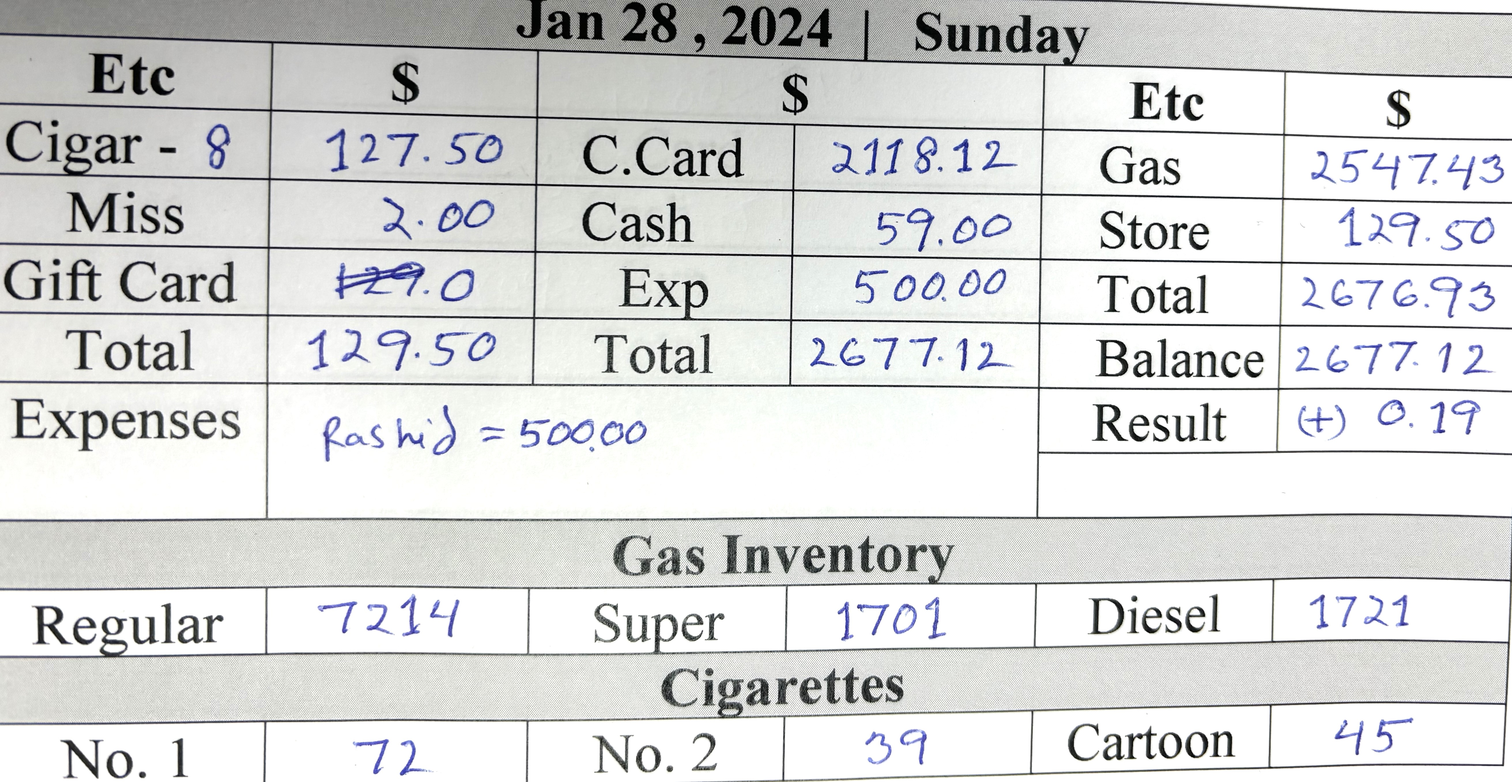
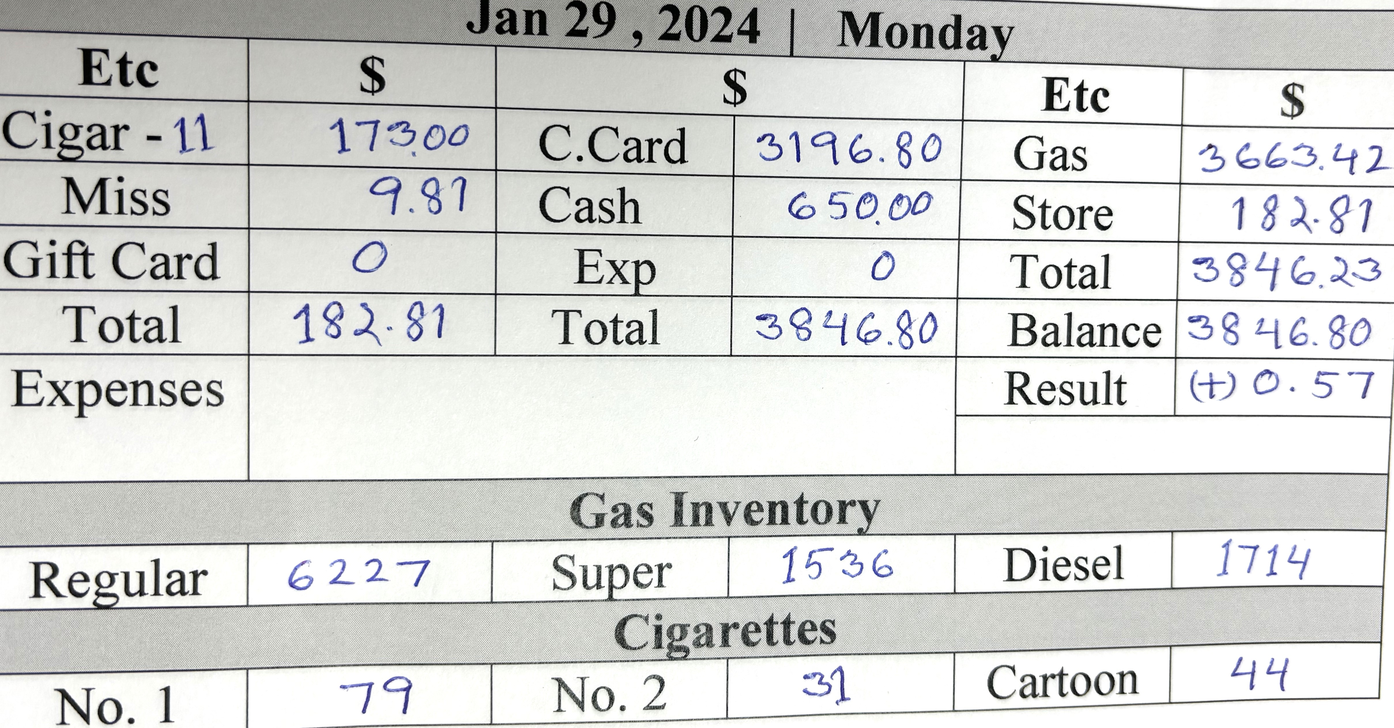
29 done

Changed region(s): [[0.0, 0.0, 1.0, 1.0], [0.2186, 0.5312, 0.4371, 0.5938]]

diff --git a/card.min.html b/card.min.html
@@ -1,1 +1,1 @@
-<!DOCTYPE html> <html lang="en"> <head> <meta charset="UTF-8"> <meta http-equiv="X-UA-Compatible" content="IE=edge"> <meta name="viewport" content="width=device-width,initial-scale=1"> <title>Gallon Info</title> <link rel="stylesheet" href="https://cdn.jsdelivr.net/npm/bootstrap@5.3.0-alpha1/dist/css/bootstrap.min.css"> </head> <body> <div class="card-group d-sm-flex flex-row bd-highlight mb- justify-content-center"> <div class="card bg-secondary align-items-center justify-content-center" style="height:50px"> <div class="card-body text-info fst-italic"> <h5 class="card-title fw-bolder text-center">Regular Price : <span class="text-warning">$2.99</span></h5> </div> </div> <div class="card bg-secondary align-items-center justify-content-center" style="height:50px"> <div class="card-body text-info fst-italic"> <h5 class="card-title fw-bolder text-center pt-">Silver Price : <span class="text-warning">$3.89</span></h5> </div> </div> <div class="card bg-secondary align-items-center justify-content-center" style="height:50px"> <div class="card-body text-info fst-italic"> <h5 class="card-title fw-bolder text-center">Super Price : <span class="text-warning">$3.99</span></h5> </div> </div> <div class="card bg-secondary align-items-center justify-content-center" style="height:50px"> <div class="card-body text-info fst-italic"> <h5 class="card-title fw-bolder text-center">Diesel Price : <span class="text-warning">$4.39</span></h5> </div> </div> </div> <div class="card-group"> <div class="card"> <button type="button" class="btn btn-warning text- fs- fw-bold text-uppercase"> For store Details <a title="printPage Me" class="text-bg-danger ms-3 fw-bolder p-1 rounded-3 text-decoration-none" href="index.html"> Click Me </a> </button> </div> </div> <div class="card-group m-0 d-sm-flex flex-row bd-highlight mb-"> <div class="card me-1 bg-info"> <h5 class="card-title text-center pt-4 m-0"> <button class="p-1 rounded-3" type="button"><a title="Click Me" class="text-decoration-none text-primary fw-bolder" href="index.html">   </a> </button> </h5>  <p class="card-text"></p> <img src="allPic/28.jpg" class="card-img-top text-danger text-center fw-bolder fs-3" alt="Call Rashid "> <div class="card-body">   <p class="card-text"></p> </div> </div> <div class="card me-1 bg-info"> <h5 class="card-title text-center pt-4 m-0"> <button class="p-1 rounded-3" type="button"><a title="Click Me" class="text-primary fw-bolder text-decoration-none" href="index.html"> Jan 27,2024 </a> </button> </h5>  <p class="card-text"></p> <img src="allPic/27.jpg" class="card-img-top text-center text-bg-danger" alt="Not Done"> <div class="card-body">   <p class="card-text"></p> </div> </div> <div class="card ms- bg-info"> <h5 class="card-title text-center pt-4 m-0"> <button class="p-1 rounded-3" type="button"><a title="Click Me" class="text-primary fw-bolder text-decoration-none" href="index.html"> Jan 26,2024 </a> </button> </h5>  <p class="card-text"></p> <img src="allPic/26.jpg" class="card-img-top text-center text-bg-danger" alt="Not Done"> <div class="card-body">   <p class="card-text"></p> </div> </div> <div class="card me-1 bg-info"> <h5 class="card-title text-center pt-4 m-0"> <button class="p-1 rounded-3" type="button"><a title="Click Me" class="text-primary fw-bolder text-decoration-none" href="index.html"> Jan 25,2024 </a> </button> </h5>  <p class="card-text"></p> <img title="Pic" src="allPic/25.jpg" class="card-img-top text-bg-danger fw-bolder text-center" alt="Already Done"> <div class="card-body">   <p class="card-text"></p> </div> </div> </div> <div class="card"> <div class="card-header bg-warning text-dark fw-bolder text-center py-3"> All Rights Reserved @ Jaber Ali , 2024 </div> </div>  <script type="text/javascript">const timeElement=document.querySelector(".time"),dateElement=document.querySelector(".date");function formatTime(e){e.getHours(),e.getMinutes(),e.getHours();return""}function formatDate(e){return` ${["January","February","March","April","May","June","July","August","September","October","November","December"][e.getMonth()]} ${e.getDate()-1}, ${e.getFullYear()}`}setInterval((()=>{const e=new Date;timeElement.textContent=formatTime(e),dateElement.textContent=formatDate(e)}),200)</script> 
+<!DOCTYPE html> <html lang="en"> <head> <meta charset="UTF-8"> <meta http-equiv="X-UA-Compatible" content="IE=edge"> <meta name="viewport" content="width=device-width,initial-scale=1"> <title>Gallon Info</title> <link rel="stylesheet" href="https://cdn.jsdelivr.net/npm/bootstrap@5.3.0-alpha1/dist/css/bootstrap.min.css"> </head> <body> <div class="card-group d-sm-flex flex-row bd-highlight mb- justify-content-center"> <div class="card bg-secondary align-items-center justify-content-center" style="height:50px"> <div class="card-body text-info fst-italic"> <h5 class="card-title fw-bolder text-center">Regular Price : <span class="text-warning">$2.99</span></h5> </div> </div> <div class="card bg-secondary align-items-center justify-content-center" style="height:50px"> <div class="card-body text-info fst-italic"> <h5 class="card-title fw-bolder text-center pt-">Silver Price : <span class="text-warning">$3.89</span></h5> </div> </div> <div class="card bg-secondary align-items-center justify-content-center" style="height:50px"> <div class="card-body text-info fst-italic"> <h5 class="card-title fw-bolder text-center">Super Price : <span class="text-warning">$3.99</span></h5> </div> </div> <div class="card bg-secondary align-items-center justify-content-center" style="height:50px"> <div class="card-body text-info fst-italic"> <h5 class="card-title fw-bolder text-center">Diesel Price : <span class="text-warning">$4.39</span></h5> </div> </div> </div> <div class="card-group"> <div class="card"> <button type="button" class="btn btn-warning text- fs- fw-bold text-uppercase"> For store Details <a title="printPage Me" class="text-bg-danger ms-3 fw-bolder p-1 rounded-3 text-decoration-none" href="index.html"> Click Me </a> </button> </div> </div> <div class="card-group m-0 d-sm-flex flex-row bd-highlight mb-"> <div class="card me-1 bg-info"> <h5 class="card-title text-center pt-4 m-0"> <button class="p-1 rounded-3" type="button"><a title="Click Me" class="text-decoration-none text-primary fw-bolder" href="index.html">   </a> </button> </h5>  <p class="card-text"></p> <img src="allPic/29.jpg" class="card-img-top text-danger text-center fw-bolder fs-3" alt="Call Rashid "> <div class="card-body">   <p class="card-text"></p> </div> </div> <div class="card me-1 bg-info"> <h5 class="card-title text-center pt-4 m-0"> <button class="p-1 rounded-3" type="button"><a title="Click Me" class="text-primary fw-bolder text-decoration-none" href="index.html"> Jan 28,2024 </a> </button> </h5>  <p class="card-text"></p> <img src="allPic/28.jpg" class="card-img-top text-center text-bg-danger" alt="Not Done"> <div class="card-body">   <p class="card-text"></p> </div> </div> <div class="card ms- bg-info"> <h5 class="card-title text-center pt-4 m-0"> <button class="p-1 rounded-3" type="button"><a title="Click Me" class="text-primary fw-bolder text-decoration-none" href="index.html"> Jan 27,2024 </a> </button> </h5>  <p class="card-text"></p> <img src="allPic/27.jpg" class="card-img-top text-center text-bg-danger" alt="Not Done"> <div class="card-body">   <p class="card-text"></p> </div> </div> <div class="card me-1 bg-info"> <h5 class="card-title text-center pt-4 m-0"> <button class="p-1 rounded-3" type="button"><a title="Click Me" class="text-primary fw-bolder text-decoration-none" href="index.html"> Jan 26,2024 </a> </button> </h5>  <p class="card-text"></p> <img title="Pic" src="allPic/26.jpg" class="card-img-top text-bg-danger fw-bolder text-center" alt="Already Done"> <div class="card-body">   <p class="card-text"></p> </div> </div> </div> <div class="card"> <div class="card-header bg-warning text-dark fw-bolder text-center py-3"> All Rights Reserved @ Jaber Ali , 2024 </div> </div>  <script type="text/javascript">const timeElement=document.querySelector(".time"),dateElement=document.querySelector(".date");function formatTime(e){e.getHours(),e.getMinutes(),e.getHours();return""}function formatDate(e){return` ${["January","February","March","April","May","June","July","August","September","October","November","December"][e.getMonth()]} ${e.getDate()-1}, ${e.getFullYear()}`}setInterval((()=>{const e=new Date;timeElement.textContent=formatTime(e),dateElement.textContent=formatDate(e)}),200)</script> 

diff --git a/weekly.min.html b/weekly.min.html
@@ -1,1 +1,1 @@
-<!DOCTYPE html> <html lang="en"> <meta charset="UTF-8"> <meta http-equiv="X-UA-Compatible" content="IE=edge"> <meta name="viewport" content="width=device-width,initial-scale=1"> <title>Cigarettes Info</title> <link rel="stylesheet" href="https://cdn.jsdelivr.net/npm/bootstrap@5.3.0-alpha1/dist/css/bootstrap.min.css">  <body> <div class="text-bg-success py-2 fw-bold"> <marquee behavior="" direction="">Weekly Total Sales Money</marquee> </div> <div class="container-fluid text-center m-0 p-0"> <div class="card-group"> <div class="card"> <button type="button" class="btn btn-warning fs- fw-bold text-uppercase"> Home Page <a title="printPage Me" class="text-bg-danger ms-2 fw-bolder p-1 rounded-3 text-decoration-none" href="index.html"> Click Me </a> </button> </div> </div> <div class="text-bg-info text-cente py- fw-bold mb-"> <div class="card-group m-0 d-sm-flex flex-row bd-highlight mb-"> <div class="card me- bg-inf"> <h5 class="text-center ms-5 mt-3 text-danger">Current Week</h5> <div class="card-body ms-3 p-0"> <table class="table"> <tr class="text-end"> <td>Monday </td> <td>:</td> <td class="text-start"> $ 0.00</td> </tr> <tr class="text-end"> <td>Tuesday </td> <td> :</td> <td class="text-start"> $ 0.00 </td> </tr> <tr class="text-end"> <td>Wednesday</td> <td> :</td> <td class="text-start">$ 0.00</td> </tr> <tr class="text-end"> <td>Thursday </td> <td> :</td> <td class="text-start"> $ 0.00 </td> </tr> <tr class="text-end"> <td class="">Friday </td> <td> :</td> <td class="text-start"> $ 0.00 </td> </tr> <tr class="text-end"> <td>Saturday </td> <td> :</td> <td class="text-start">0.00</td> </tr> <tr class="text-end"> <td>Sunday </td> <td> :</td> <td class="text-start">0.00 </td> </tr> <tr class="text-end"> <td>Auto Money </td> <td> :</td> <td class="text-start">0.00</td> </tr> </table> <div class="m-0 p-0"> <p class="text-center text-danger bg-light fw-bold">Total Money : $ 00</p> </div> </div> </div> <div class="card me- bg-inf"> <h5 class="text-center ms-5 mt-3 text-danger">Last Week : Jan 22 to 27 , 2024</h5> <div class="card-body ms-3 p-0"> <table class="table"> <tr class="text-end"> <td>Monday </td> <td>:</td> <td class="text-start"> $ 537.00</td> </tr> <tr class="text-end"> <td>Tuesday </td> <td> :</td> <td class="text-start"> $ -86.00 [auto pabe]</td> </tr> <tr class="text-end"> <td>Wednesday</td> <td> :</td> <td class="text-start">$ 42.00</td> </tr> <tr class="text-end"> <td>Thursday </td> <td> :</td> <td class="text-start"> $ 263.00 </td> </tr> <tr class="text-end"> <td class="">Friday </td> <td> :</td> <td class="text-start"> $ 272.00 </td> </tr> <tr class="text-end"> <td>Saturday </td> <td> :</td> <td class="text-start">-189.00 [auto pabe]</td> </tr> <tr class="text-end"> <td>Sunday </td> <td> :</td> <td class="text-start">559.00 </td> </tr> <tr class="text-end"> <td>Auto Money </td> <td> :</td> <td class="text-start"> 1059.00 <sup class="p-1 rounded-4 text-bg-dark">Tax:148</sup> [Mostofa=911]</td> </tr> </table> <div class="m-0 p-0"> <p class="text-center text-danger bg-light fw-bold">Total Money : $ 2457 - 1101 = 1356</p> </div> </div> </div> <div class="card me- bg-"> <div class="card-body"> <h5 class="text-start text-danger ms-2">Expenses of Last Week</h5> <table class="table text-start"> <tr> <td class="">Ali <span class="ms-5">: $ 525.00</span></td> </tr> <tr> <td class="">Rashid <span class="ms-2">: $ 572.00</span></td> </tr> <tr> <td class="">pen,Rubber <span class="ms-2">: $ 4.00</span></td> </tr> <tr> <td class="text-bg-warning text-dark rounded-2">Total <span class="ms-4">: $ 1101.00</span></td> </tr> </table> </div> </div> </div> </div> <!-- #footer start --> <div class="text-bg-success text-center py-2 fw-bold"> <p> All Rights Reserved @ Jaber Ali , 2023  </p> </div> </div> <script type="text/javascript">function printPage(){window.print()}</script> 
+<!DOCTYPE html> <html lang="en"> <meta charset="UTF-8"> <meta http-equiv="X-UA-Compatible" content="IE=edge"> <meta name="viewport" content="width=device-width,initial-scale=1"> <title>Cigarettes Info</title> <link rel="stylesheet" href="https://cdn.jsdelivr.net/npm/bootstrap@5.3.0-alpha1/dist/css/bootstrap.min.css">  <body> <div class="text-bg-success py-2 fw-bold"> <marquee behavior="" direction="">Weekly Total Sales Money</marquee> </div> <div class="container-fluid text-center m-0 p-0"> <div class="card-group"> <div class="card"> <button type="button" class="btn btn-warning fs- fw-bold text-uppercase"> Home Page <a title="printPage Me" class="text-bg-danger ms-2 fw-bolder p-1 rounded-3 text-decoration-none" href="index.html"> Click Me </a> </button> </div> </div> <div class="text-bg-info text-cente py- fw-bold mb-"> <div class="card-group m-0 d-sm-flex flex-row bd-highlight mb-"> <div class="card me- bg-inf"> <h5 class="text-center ms-5 mt-3 text-danger">Current Week</h5> <div class="card-body ms-3 p-0"> <table class="table"> <tr class="text-end"> <td>Monday </td> <td>:</td> <td class="text-start"> $ 650.00</td> </tr> <tr class="text-end"> <td>Tuesday </td> <td> :</td> <td class="text-start"> $ 0.00 </td> </tr> <tr class="text-end"> <td>Wednesday</td> <td> :</td> <td class="text-start">$ 0.00</td> </tr> <tr class="text-end"> <td>Thursday </td> <td> :</td> <td class="text-start"> $ 0.00 </td> </tr> <tr class="text-end"> <td class="">Friday </td> <td> :</td> <td class="text-start"> $ 0.00 </td> </tr> <tr class="text-end"> <td>Saturday </td> <td> :</td> <td class="text-start">0.00</td> </tr> <tr class="text-end"> <td>Sunday </td> <td> :</td> <td class="text-start">0.00 </td> </tr> <tr class="text-end"> <td>Auto Money </td> <td> :</td> <td class="text-start">0.00</td> </tr> </table> <div class="m-0 p-0"> <p class="text-center text-danger bg-light fw-bold">Total Money : $ 00</p> </div> </div> </div> <div class="card me- bg-inf"> <h5 class="text-center ms-5 mt-3 text-danger">Last Week : Jan 22 to 27 , 2024</h5> <div class="card-body ms-3 p-0"> <table class="table"> <tr class="text-end"> <td>Monday </td> <td>:</td> <td class="text-start"> $ 537.00</td> </tr> <tr class="text-end"> <td>Tuesday </td> <td> :</td> <td class="text-start"> $ -86.00 [auto pabe]</td> </tr> <tr class="text-end"> <td>Wednesday</td> <td> :</td> <td class="text-start">$ 42.00</td> </tr> <tr class="text-end"> <td>Thursday </td> <td> :</td> <td class="text-start"> $ 263.00 </td> </tr> <tr class="text-end"> <td class="">Friday </td> <td> :</td> <td class="text-start"> $ 272.00 </td> </tr> <tr class="text-end"> <td>Saturday </td> <td> :</td> <td class="text-start">-189.00 [auto pabe]</td> </tr> <tr class="text-end"> <td>Sunday </td> <td> :</td> <td class="text-start">559.00 </td> </tr> <tr class="text-end"> <td>Auto Money </td> <td> :</td> <td class="text-start"> 1059.00 <sup class="p-1 rounded-4 text-bg-dark">Tax:148</sup> [Mostofa=911]</td> </tr> </table> <div class="m-0 p-0"> <p class="text-center text-danger bg-light fw-bold">Total Money : $ 2457 - 1101 = 1356</p> </div> </div> </div> <div class="card me- bg-"> <div class="card-body"> <h5 class="text-start text-danger ms-2">Expenses of Last Week</h5> <table class="table text-start"> <tr> <td class="">Ali <span class="ms-5">: $ 525.00</span></td> </tr> <tr> <td class="">Rashid <span class="ms-2">: $ 572.00</span></td> </tr> <tr> <td class="">pen,Rubber <span class="ms-2">: $ 4.00</span></td> </tr> <tr> <td class="text-bg-warning text-dark rounded-2">Total <span class="ms-4">: $ 1101.00</span></td> </tr> </table> </div> </div> </div> </div> <!-- #footer start --> <div class="text-bg-success text-center py-2 fw-bold"> <p> All Rights Reserved @ Jaber Ali , 2023  </p> </div> </div> <script type="text/javascript">function printPage(){window.print()}</script> 

diff --git a/index.min.html b/index.min.html
@@ -1,1 +1,1 @@
-<!DOCTYPE html> <html lang="en"> <head> <meta charset="UTF-8"> <meta http-equiv="X-UA-Compatible" content="IE=edge"> <meta name="viewport" content="width=device-width,initial-scale=1"> <title>Store Info</title> <link rel="stylesheet" href="https://cdn.jsdelivr.net/npm/bootstrap@5.3.0-alpha1/dist/css/bootstrap.min.css"> </head> <body> <div class="text-bg-success py-2 fw-bold text-uppercase"> <marquee behavior="" direction=""><span class="text-bolder text-bg-danger rounded-circle m-lg-2 fs-">***</span> Personal Business Information <span class="text-bolder text-bg-danger rounded-circle m-lg-2 fs-">***</span></marquee> </div> <div class="card-group"> <div class="card"> <button type="button" class="btn btn-warning fs- fw-bold text-uppercase"> For Gallon Details <a title="printPage Me" class="text-bg-danger ms-3 fw-bolder p-1 rounded-3 text-decoration-none" href="card.html"> Click Me </a> </button> </div> </div> <div class="card-group"> <div class="card"> <button type="button" class="btn btn-warning fs- fw-bold text-uppercase"> Order Cigarettes <a title="printPage Me" class="text-bg-danger ms-3 fw-bolder p-1 rounded-3 text-decoration-none" href="cigarettes.html"> Click Me </a> </button> </div> <div class="card"> <button type="button" class="btn btn-warning fs- fw-bold text-uppercase"> Weekly Total Money<a title="printPage Me" class="text-bg-danger ms-3 fw-bolder p-1 rounded-3 text-decoration-none" href="weekly.html"> Click Me </a> </button> </div> </div> <div class="text-center py-2"> <button class="fw-bold fs-5 rounded-2 text-bg-light text-primary"> <a title="printPage Me" class="text-decoration-none" href="card.html">   <span class=""> <button class="ms-5 fw-bolder rounded-2" onclick="printPage()"> Print Me </button></span> </a> </button> </div> <div class="card-group"> <div class="card"> <button type="button" class="btn btn-info fs- fw-bold text-uppercase"> Shift Report <span class="text-white ms-1">*</span> </button> <img src="allPic/hisab.jpg" class="card-img-top text-center text-bg-danger" alt="NOT FINISH"> </div> </div> <div class="card-grou"> <div class="card pb-3"> <button type="button" class="btn btn-secondary fs fw-bold text-uppercase"> Exp : <span class="text-warning ms-3">rashid : 72+500 = 572 </span> </button> </div> </div> <div class="card-group"> <div class="card"> <button type="button" class="btn btn-secondary fs- fw-bold text-uppercase"> Auto shop </button> </div> </div> <div class="pb-3"> <div class="d-flex justify-content-around border border-dark fw-bolder"> <div class="p-0 text-info">T.M</div> <div class="p-0 text-danger">2815</div> <div class="p-0 text-info">Etc</div> <div class="p-0 text-danger">993</div> <div class="p-0 text-info">Rest</div> <div class="p-0 text-danger">1822 = 911</div> </div> </div> <!-- #footer start --> <div class="text-bg-warning text-center py-3 fw-bold"> All Rights Reserved @ Jaber Ali , 2024 </div>  <script type="text/javascript">function printPage(){window.print()}const timeElement=document.querySelector(".time"),dateElement=document.querySelector(".date");function formatTime(t){const e=t.getHours()%12||12,n=t.getMinutes(),r=t.getHours()<12;return`${e.toString().padStart(2,"0")}:${n.toString().padStart(2,"0")} ${r?"AM":"PM"}`}function formatDate(t){return` ${["January","February","March","April","May","June","July","August","September","October","November","December"][t.getMonth()]} ${t.getDate()-1}, ${t.getFullYear()}`}setInterval((()=>{const t=new Date;timeElement.textContent=formatTime(t),dateElement.textContent=formatDate(t)}),200)</script> 
+<!DOCTYPE html> <html lang="en"> <head> <meta charset="UTF-8"> <meta http-equiv="X-UA-Compatible" content="IE=edge"> <meta name="viewport" content="width=device-width,initial-scale=1"> <title>Store Info</title> <link rel="stylesheet" href="https://cdn.jsdelivr.net/npm/bootstrap@5.3.0-alpha1/dist/css/bootstrap.min.css"> </head> <body> <div class="text-bg-success py-2 fw-bold text-uppercase"> <marquee behavior="" direction=""><span class="text-bolder text-bg-danger rounded-circle m-lg-2 fs-">***</span> Personal Business Information <span class="text-bolder text-bg-danger rounded-circle m-lg-2 fs-">***</span></marquee> </div> <div class="card-group"> <div class="card"> <button type="button" class="btn btn-warning fs- fw-bold text-uppercase"> For Gallon Details <a title="printPage Me" class="text-bg-danger ms-3 fw-bolder p-1 rounded-3 text-decoration-none" href="card.html"> Click Me </a> </button> </div> </div> <div class="card-group"> <div class="card"> <button type="button" class="btn btn-warning fs- fw-bold text-uppercase"> Order Cigarettes <a title="printPage Me" class="text-bg-danger ms-3 fw-bolder p-1 rounded-3 text-decoration-none" href="cigarettes.html"> Click Me </a> </button> </div> <div class="card"> <button type="button" class="btn btn-warning fs- fw-bold text-uppercase"> Weekly Total Money<a title="printPage Me" class="text-bg-danger ms-3 fw-bolder p-1 rounded-3 text-decoration-none" href="weekly.html"> Click Me </a> </button> </div> </div> <div class="text-center py-2"> <button class="fw-bold fs-5 rounded-2 text-bg-light text-primary"> <a title="printPage Me" class="text-decoration-none" href="card.html">   <span class=""> <button class="ms-5 fw-bolder rounded-2" onclick="printPage()"> Print Me </button></span> </a> </button> </div> <div class="card-group"> <div class="card"> <button type="button" class="btn btn-info fs- fw-bold text-uppercase"> Shift Report <span class="text-white ms-1">*</span> </button> <img src="allPic/hisab.jpg" class="card-img-top text-center text-bg-danger" alt="NOT FINISH"> </div> </div> <div class="card-grou"> <div class="card pb-3"> <button type="button" class="btn btn-secondary fs fw-bold text-uppercase"> Exp : <span class="text-warning ms-3">0</span> </button> </div> </div> <div class="card-group"> <div class="card"> <button type="button" class="btn btn-secondary fs- fw-bold text-uppercase"> Auto shop </button> </div> </div> <div class="pb-3"> <div class="d-flex justify-content-around border border-dark fw-bolder"> <div class="p-0 text-info">T.M</div> <div class="p-0 text-danger">646</div> <div class="p-0 text-info">Etc</div> <div class="p-0 text-danger">300</div> <div class="p-0 text-info">Rest</div> <div class="p-0 text-danger">346</div> </div> </div> <!-- #footer start --> <div class="text-bg-warning text-center py-3 fw-bold"> All Rights Reserved @ Jaber Ali , 2024 </div>  <script type="text/javascript">function printPage(){window.print()}const timeElement=document.querySelector(".time"),dateElement=document.querySelector(".date");function formatTime(t){const e=t.getHours()%12||12,n=t.getMinutes(),r=t.getHours()<12;return`${e.toString().padStart(2,"0")}:${n.toString().padStart(2,"0")} ${r?"AM":"PM"}`}function formatDate(t){return` ${["January","February","March","April","May","June","July","August","September","October","November","December"][t.getMonth()]} ${t.getDate()-1}, ${t.getFullYear()}`}setInterval((()=>{const t=new Date;timeElement.textContent=formatTime(t),dateElement.textContent=formatDate(t)}),200)</script> 

diff --git a/card.html b/card.html
@@ -67,7 +67,7 @@
         </h5>
           <p class="card-text"></p>
           <p class="card-text"><small class="text-muted"></small></p>
-        <img src="allPic/28.jpg" class="card-img-top text-danger text-center fw-bolder fs-3"   alt="Call Rashid ">
+        <img src="allPic/29.jpg" class="card-img-top text-danger text-center fw-bolder fs-3"   alt="Call Rashid ">
         <div class="card-body">
           <h5 class="card-title"></h5>
           <p class="card-text"></p>
@@ -78,13 +78,13 @@
         <h5 class="card-title text-center pt-4 m-0">
           <button class="p-1 rounded-3" type="button"><a title="Click Me"
              class="text-primary fw-bolder text-decoration-none " href="index.html">
-             Jan 27,2024
+             Jan 28,2024
           </a>
           </button>
         </h5>
           <p class="card-text"></p>
           <p class="card-text"><small class="text-muted"></small></p>
-        <img src="allPic/27.jpg" class="card-img-top text-center text-bg-danger" 
+        <img src="allPic/28.jpg" class="card-img-top text-center text-bg-danger" 
         alt="Not Done">
         <div class="card-body">
           <h5 class="card-title"></h5>
@@ -96,13 +96,13 @@
         <h5 class="card-title text-center pt-4 m-0 ">
           <button class="p-1 rounded-3" type="button"><a title="Click Me" 
             class="text-primary fw-bolder text-decoration-none " href="index.html">
-            Jan 26,2024         
+            Jan 27,2024         
           </a>
           </button>
           </h5>
           <p class="card-text"></p>
           <p class="card-text"><small class="text-muted"></small></p>
-        <img src="allPic/26.jpg" class="card-img-top text-center text-bg-danger" 
+        <img src="allPic/27.jpg" class="card-img-top text-center text-bg-danger" 
         alt="Not Done">
         <div class="card-body">
           <h5 class="card-title"></h5>
@@ -115,13 +115,13 @@
         <h5 class="card-title text-center pt-4 m-0 ">
           <button class="p-1 rounded-3" type="button"><a title="Click Me" 
             class="text-primary fw-bolder text-decoration-none " href="index.html">
-             Jan 25,2024
+             Jan 26,2024
             </a>
           </button>
           </h5>
           <p class="card-text"></p>
           <p class="card-text"><small class="text-muted"></small></p>
-        <img title="Pic" src="allPic/25.jpg" class="card-img-top  text-bg-danger fw-bolder text-center"
+        <img title="Pic" src="allPic/26.jpg" class="card-img-top  text-bg-danger fw-bolder text-center"
          alt="Already Done">
         <div class="card-body">
           <h5 class="card-title"></h5>

diff --git a/index.html b/index.html
@@ -85,8 +85,8 @@
         <button
           type="button"
           class="btn btn-secondary fs fw-bold text-uppercase">
-         Exp  :  <span class="text-warning ms-3">rashid :  72+500 = 572 </span>
-         <!-- Exp  : <span class="text-warning ms-3">0</span> -->
+         <!-- Exp  :  <span class="text-warning ms-3">rashid :  72+500 = 572 </span> -->
+         Exp  : <span class="text-warning ms-3">0</span>
         </button> 
       </div>
     </div>
@@ -106,11 +106,11 @@
       <div class="d-flex justify-content-around border border-dark fw-bolder">
         <!--this week start-->
         <div class="p-0 text-info">T.M</div>
-        <div class="p-0 text-danger">2815</div>
+        <div class="p-0 text-danger">646</div>
         <div class="p-0 text-info">Etc</div>
-        <div class="p-0 text-danger">993</div>
+        <div class="p-0 text-danger">300</div>
         <div class="p-0 text-info">Rest</div>
-        <div class="p-0 text-danger">1822 = 911</div>
+        <div class="p-0 text-danger">346</div>
           <!--35,22,15,15-->
         </div>
       </div>

diff --git a/weekly.html b/weekly.html
@@ -49,7 +49,7 @@
                 <tr class="text-end">
                     <td >Monday </td>
                     <td >:</td>
-                    <td class="text-start"> $ 0.00</td>
+                    <td class="text-start"> $ 650.00</td>
                 </tr>
                 <tr class=" text-end">
                     <td>Tuesday </td>
